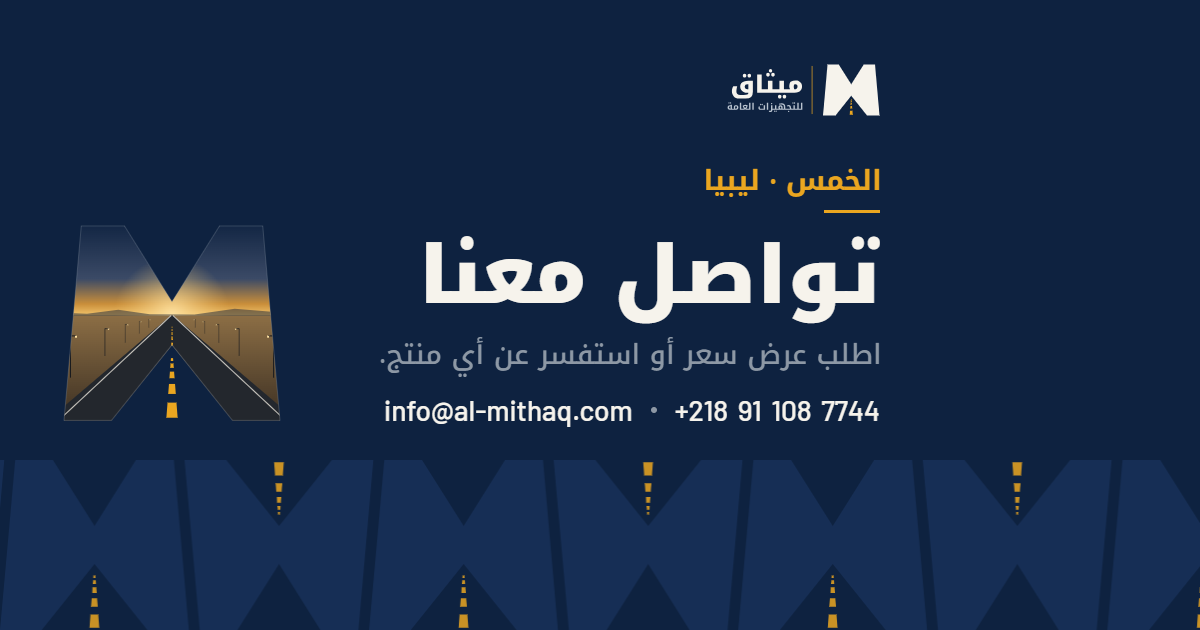
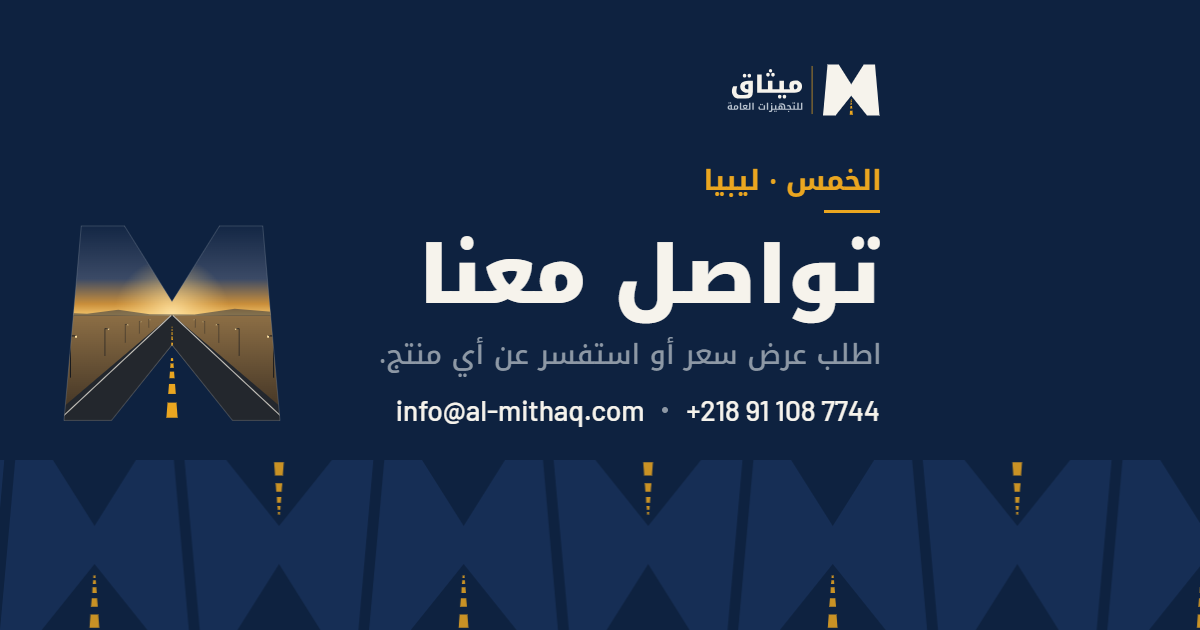
Fix final review findings on the link previews
- Arabic Contact image: the phone number keeps Barlow's word spacing, as on
  the site (the Arabic word-spacing correction now skips phone, email and
  key-figure values).
- scripts/og/check.mjs also runs when started through a symlinked or
  junctioned folder, and its message names fonts and pictures as well.
- Docs: what stops the build (anything an image shows or is made from,
  font updates included), new products only get a note, what the ?v= hash
  does and does not refresh, choosing the primary domain later, and the
  Linux/Node 26 replay of the Vercel build.

Changed region(s): [[0.3083, 0.6333, 0.6783, 0.6937]]

diff --git a/src/data/og-images.ts b/src/data/og-images.ts
@@ -44,17 +44,17 @@ export const ogImages: Readonly<Record<string, { ar: OgImage; en: OgImage }>> = 
     en: { src: '/og/en/partners.png?v=0f3cf363bd', width: 1200, height: 630, type: 'image/png', alt: 'Our partners, Mithaq General Supplies' },
   },
   '/contact': {
-    ar: { src: '/og/ar/contact.png?v=f3b99eacb6', width: 1200, height: 630, type: 'image/png', alt: 'تواصل معنا، شركة ميثاق للتجهيزات العامة' },
+    ar: { src: '/og/ar/contact.png?v=dd68fff36f', width: 1200, height: 630, type: 'image/png', alt: 'تواصل معنا، شركة ميثاق للتجهيزات العامة' },
     en: { src: '/og/en/contact.png?v=048ab57ade', width: 1200, height: 630, type: 'image/png', alt: 'Contact us, Mithaq General Supplies' },
   },
 };
 
 /** Fingerprint of what each image is made from (scripts/og/fingerprint.mjs), compared with src/data by scripts/og/check.mjs. */
 export const ogImageSources: Readonly<Record<string, { ar: string; en: string }>> = {
-  '/sectors': { ar: '71b102e80e', en: 'de4050ccbc' },
-  '/products': { ar: '64e1f848d5', en: '99abafa709' },
-  '/products/g2200': { ar: '9241b08b17', en: '9e2d877942' },
-  '/about': { ar: '88a9d3eb8f', en: '4d8f829fb8' },
-  '/partners': { ar: '669f8ad6ae', en: '4c66a9ce6a' },
-  '/contact': { ar: '0f1d9d3bb7', en: '74669cfee1' },
+  '/sectors': { ar: '7d67bcd6c8', en: 'a42309f024' },
+  '/products': { ar: '61e781d1ce', en: 'c61a01c2aa' },
+  '/products/g2200': { ar: '16439328c0', en: '3114a4e5c1' },
+  '/about': { ar: '262d8f7206', en: '0f0159e9e3' },
+  '/partners': { ar: '3ee11ae903', en: '6a1cd5c0c6' },
+  '/contact': { ar: 'd59ae6218e', en: '57ed53858e' },
 };

diff --git a/scripts/og/og.css b/scripts/og/og.css
@@ -51,9 +51,10 @@ html, body { width: 1200px; height: 630px; overflow: hidden; background: var(--n
 .nowrap { white-space: nowrap; }
 /* The site draws the spaces of Arabic text in Noto Kufi Arabic (0.34 em, measured on the built
    pages); here they fall through to Barlow (0.20 em), so Arabic text gets the difference back.
-   Latin runs keep Barlow's own spacing. */
+   Latin runs, the phone and email, and key-figure values keep Barlow's own spacing (on the site
+   they are set in Barlow too). */
 :lang(ar) { word-spacing: 0.14em; }
-.latin, :lang(en) { word-spacing: normal; }
+.latin, .detail, .figure-value, :lang(en) { word-spacing: normal; }
 
 /* ---- The Gateway band: physical position, identical in both languages ---- */
 .band {

diff --git a/PROGRESS.md b/PROGRESS.md
@@ -28,7 +28,7 @@ React 19.3 · Vite 8 · TypeScript 7 · Tailwind CSS 4.3 (`@theme` tokens in `sr
 
 - `npm run build` passes: type-check, client build, 14 pre-rendered pages, `sitemap.xml`, app shell and manifest from `src/data`. Script 127 KB and CSS 11 KB (brotli).
 - SEO check of every pre-rendered page: one title and description, canonical, `hreflang` ar/en/x-default (Arabic); the sitemap lists all 14 addresses.
-- Link-preview check of every pre-rendered page and the app shell (15): `og:image` is the page's own image on the site address, the file exists and is a 1200 × 630 PNG under 300 KB, width, height, type, `secure_url` and the description (in the page's language) are right, the X tags equal the Open Graph ones, `og:url` equals the canonical, and the tags sit in the first 2 KB of the page. Built once with the Vercel address as well: every address followed it.
+- Link-preview check of every pre-rendered page and the app shell (15): `og:image` is the page's own image on the site address, the file exists and is a 1200 × 630 PNG under 300 KB, width, height, type, `secure_url` and the description (in the page's language) are right, the X tags equal the Open Graph ones, `og:url` equals the canonical, and the tags sit in the first 4 KB of the page (in `<head>`, before the scripts and stylesheets). Every page also fetched as the WhatsApp, Facebook, X, LinkedIn, Telegram and Slack crawlers from a local server: right tags, image served as PNG under 300 KB. The build was replayed on Linux with Node 26 (Vercel's version for this project): identical output. Built once with the Vercel address as well: every address followed it.
 - All 18 routes (the 14 pages, two filtered views, a pre-filled Contact address and a 404) at 375 / 768 / 1280 px, 54 runs: no horizontal scroll, correct `lang`/`dir`, no console errors, no failed requests, no letter-spaced Arabic, every image sized and loaded, exactly one h1.
 - Brief rules on 15 pages at 375 and 1280, 30 runs: no gold or steel text on light grounds, phone numbers left to right, tap targets at least 44 px (the breadcrumb's "Home" is widened to 48 px by an invisible hit area), `wa.me` only on the Contact page (one link).
 - Language switch, 15 runs on 9 pages (both directions, from the top and scrolled, 4× CPU throttling, reduced motion, Back/Forward): path, query, hash and the exact scroll position kept; header logo swaps; a second click is ignored; focus returns to the toggle; the live region announces; the choice is saved. Cover complete at ~300 ms, swap at ~340–410 ms, the 300 ms reveal always plays in full and the overlay leaves only when the panel is off screen (~770–1000 ms; ~2–2.5 s on a 4× slower CPU). Reduced motion: a crossfade of ~200–400 ms, no sweep. Back/Forward keep the chosen language, also across a page reload.
@@ -80,10 +80,10 @@ React 19.3 · Vite 8 · TypeScript 7 · Tailwind CSS 4.3 (`@theme` tokens in `sr
 
 - **Every page has its own share image** in both languages (12 images, 46–87 KB), so a link to the G2200 shows the G2200, a link to Contact shows the phone and email. Home keeps the official images from the logo package. Three design directions were drawn (editorial cover, a Gateway window, a product spec card); the editorial one won because it reads as a sibling of the official images: same navy, gold kicker and the identical Gateway band, and the layout of the site's own page openings. In WhatsApp's square crop it still shows the logo, the full title and the band.
 - **What each image shows** (all words from `src/data`): Sectors: the eight sector icons. Products and the product page: the G2200 illustration, with two key figures on the product page. About: the title "Our name is our promise", the definition "Mithaq: a binding covenant" and the word ميثاق in gold. Partners and Contact: the Home hero's Gateway window (the dusk road seen through the M); Contact adds the phone and email (no WhatsApp number, which stays on the Contact page).
-- **Arabic typesetting**: Latin names and figures read left to right inside Arabic, two-word phrases are never split ("رباعية العجلات"), Arabic words are spaced as on the site, and Arabic is never letter-spaced. The Arabic G2200 title needs three lines (كانسة الطرق / G2200 / رباعية العجلات), so its sector label is left out to keep the title at 68 px; the English image keeps it.
+- **Arabic typesetting**: Latin names and figures read left to right inside Arabic, two-word phrases are kept whole ("رباعية العجلات"; split only as a last resort, which the generator reports), Arabic words are spaced as on the site, and Arabic is never letter-spaced. The Arabic G2200 title needs three lines (كانسة الطرق / G2200 / رباعية العجلات) and does not fit with its sector label above it, even at the 60 px minimum, so the label is left out and the title is set at 68 px; the English image keeps it.
 - **On About in Arabic, ميثاق appears three times** (the logo, the definition, the gold word). Kept on purpose, since the page is about the name; easy to change.
-- **Addresses**: every preview address is absolute and built from the site address at build time (`SITE_URL`, else Vercel's production domain, else al-mithaq.com); an invalid value stops the build. Image addresses carry a content hash, so a changed image is fetched again by WhatsApp, Facebook and LinkedIn.
-- **Kept up to date**: `npm run og` renders the images from `src/data` and records what each was made from; `npm run build` (also on Vercel) stops if a title, lead, product, phone or email changed since, until the images are rendered again and committed. The generator uses Edge or Chrome already on the computer; Vercel never needs a browser.
+- **Addresses**: every preview address is absolute and built from the site address at build time (`SITE_URL`, else Vercel's production domain, else al-mithaq.com); an invalid value stops the build. Image addresses carry a content hash, so whenever a platform reads a page again it fetches the changed image; a link already shared is refreshed with Facebook's Sharing Debugger or LinkedIn's Post Inspector.
+- **Kept up to date**: `npm run og` renders the images from `src/data` and records what each was made from; `npm run build` (also on Vercel) stops if anything an image shows or is made from changed since (titles, leads, products, phone, email, logos, fonts…), until the images are rendered again and committed. A new product without an image only gets a note (its page shares the Home image). The generator uses Edge or Chrome already on the computer; Vercel never needs a browser.
 
 ## TODO for the client ([CONFIRM] items)
 

diff --git a/docs/CONVENTIONS.md b/docs/CONVENTIONS.md
@@ -71,10 +71,11 @@ Opacity variants are for lines, glows and overlays only (`border-steel/30`, `bg-
 
 - `<Seo>` writes each page's link preview with its title and description: `og:*` and `twitter:*` tags, every address absolute on the site address, and the page's own image from `src/data/og-images.ts`. Home uses the official share images from the logo package (`public/og/og-ar.png`, `og-en.png`, never edited); a page without an image of its own falls back to them.
 - The inner pages' images (1200 × 630, `public/og/<lang>/<page>.png`) are made from `src/data` by `npm run og`, in the layout of the official images: logo, gold kicker, title, lead, a picture on the reading-end side and the Gateway band. Each image is checked (text fits, fonts and assets load, Arabic never letter-spaced, safe area, the centre square WhatsApp may crop to, the band, at most 300 KB for WhatsApp) and nothing is written unless all pass.
-- **After changing a page title, lead or kicker, a product (name, key figures, photos, sector), or the phone or email**, or after adding a product, run `npm run og` and commit `public/og/` and `src/data/og-images.ts`. Until then `npm run build` stops with "Link-preview images are out of date".
+- **After changing anything an image shows or is made from**, run `npm run og` and commit `public/og/` and `src/data/og-images.ts`: a page title, lead or kicker, a product (name, key figures, photos, sector), the phone or email, the company name or slogan, a logo, the band tile, a sector icon or product illustration, `scripts/og/`, or an update of the `@fontsource` packages. Until then `npm run build` (also on Vercel) stops with "Link-preview images are out of date".
+- **After adding a product**, run `npm run og` too: until then its page shares the Home image and the build only prints a note.
 - A product name that would need a fourth line in the preview gets a shorter `shareName` in `src/data/index.ts`. Once a product has photos, its preview shows the first one (saved as JPEG).
-- The site address comes from `SITE_URL` if set, else Vercel's production domain (`VERCEL_PROJECT_PRODUCTION_URL`), else https://al-mithaq.com (see `vite.config.ts`). After connecting al-mithaq.com in Vercel, deploy again so every address and preview moves to it.
-- Platforms cache previews. Image addresses carry a content hash (`?v=`), so a changed image is fetched again; to refresh a link's text, use Facebook's Sharing Debugger or LinkedIn's Post Inspector.
+- The site address comes from `SITE_URL` if set, else Vercel's production domain (`VERCEL_PROJECT_PRODUCTION_URL`), else https://al-mithaq.com (see `vite.config.ts`); the build log shows it ("site address: …"). After connecting al-mithaq.com in Vercel, make the domain people will use the primary one (the other redirecting to it), then deploy again so every address and preview moves to it.
+- Platforms cache previews. Image addresses carry a content hash (`?v=`), so whenever a platform reads a page again it fetches the changed image rather than a cached copy. To refresh a link that was already shared (text and image), use Facebook's Sharing Debugger or LinkedIn's Post Inspector.
 
 ## Page anatomy
 
